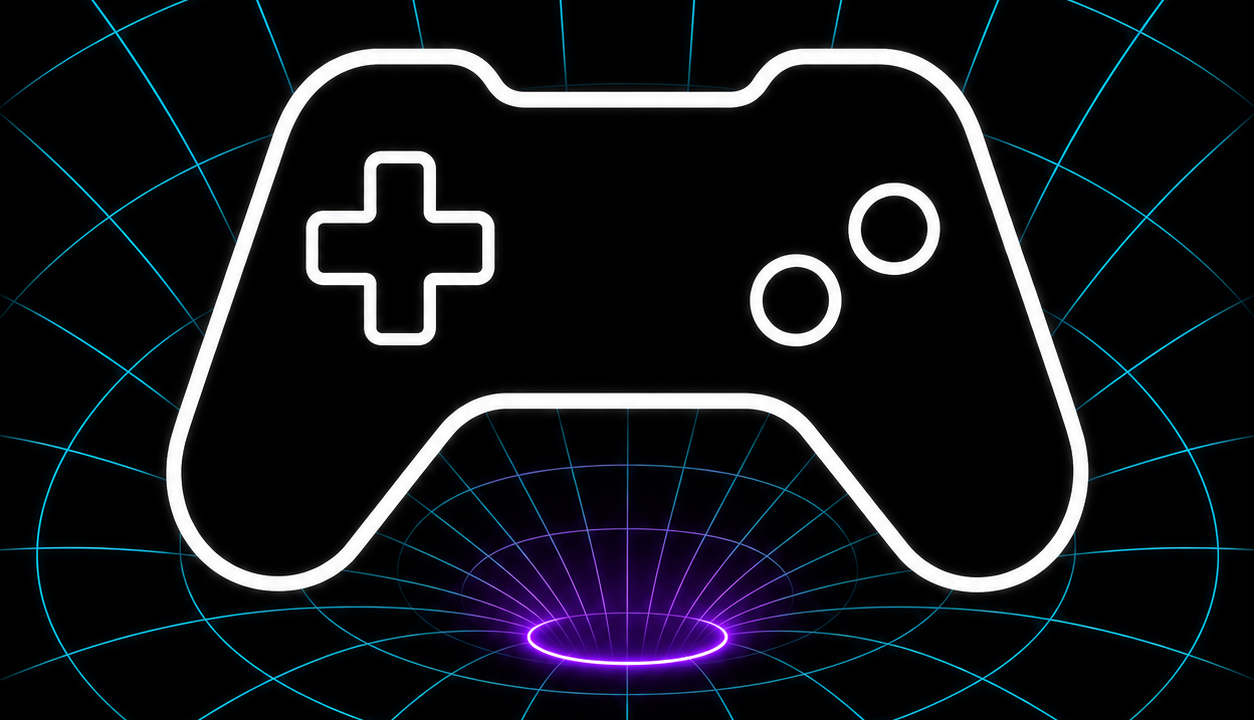
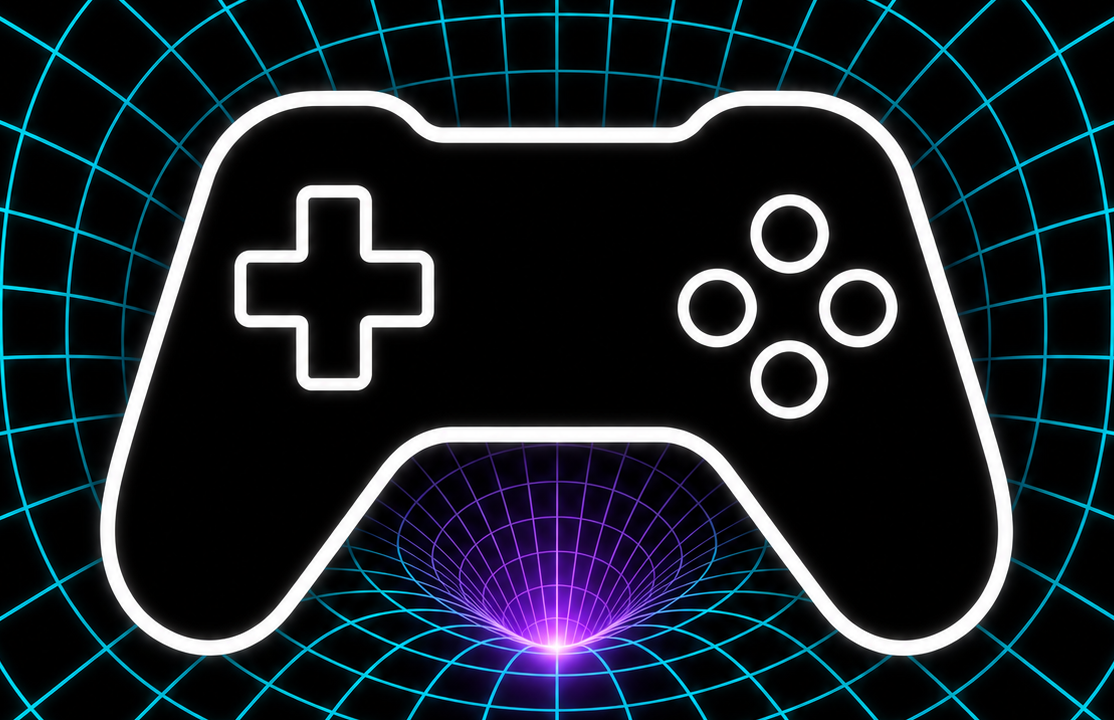
docs: update

diff --git a/profile/README.md b/profile/README.md
@@ -6,15 +6,15 @@
 
 **Harnessing the AI-Eigen space for precise and instant game generation.**
 
-AIGen Game is an ecosystem for AI-powered game development. It brings together an agentic game-dev framework, a reusable agent workflow orchestrator, and engine-facing automation so game ideas can move from intent to playable systems with speed and control.
+`AIGen Game` is an ecosystem for AI-powered game development. It brings together an agentic game-dev framework, a reusable agent workflow orchestrator, and engine-facing automation so game ideas can move from intent to playable systems with speed and control.
 
 The core idea is simple: game creation is a structured generative space. Mechanics, assets, rules, player experience, production phases, and engine operations are not isolated tasks. They are coordinates in an AI-Eigen space that agents can navigate, transform, and refine.
 
-AIGen Game exists to make that space usable.
+`AIGen Game` exists to make that space usable.
 
 ## What It Is
 
-AIGen Game is not only a prompt-to-game tool. It is an entry point into a small family of projects for **agentic game creation**.
+`AIGen Game` is not only a prompt-to-game tool. It is an entry point into a small family of projects for **agentic game creation**.
 
 The projects have distinct roles:
 
@@ -53,19 +53,19 @@ Intent -> Meta Game -> Skills + Asset Pipelines + Phase Management
 
 ### AI-Eigen Space
 
-AIGen Game uses the idea of an AI-Eigen space as a product metaphor for controlled generation. Instead of asking AI for random game output, the framework aims to guide generation along meaningful game-development dimensions: genre, mechanics, style, pacing, constraints, tools, and production state.
+`AIGen Game` uses the idea of an AI-Eigen space as a product metaphor for controlled generation. Instead of asking AI for random game output, the framework aims to guide generation along meaningful game-development dimensions: genre, mechanics, style, pacing, constraints, tools, and production state.
 
 Precision comes from controlling the space.
 
 ### AI Agents
 
-Agents are focused collaborators. They can reason about design, implementation, assets, testing, review, documentation, or production flow. AIGen Game treats agents as participants in a workflow, not as isolated chat responses.
+Agents are focused collaborators. They can reason about design, implementation, assets, testing, review, documentation, or production flow. `AIGen Game` treats agents as participants in a workflow, not as isolated chat responses.
 
 ### Agentic Workflow
 
 Agentic workflows give structure to AI work. They define what should happen, when it should happen, which agent or tool should handle it, and where human approval belongs.
 
-This is how AIGen Game keeps generation fast without making it random or opaque.
+This is how `AIGen Game` keeps generation fast without making it random or opaque.
 
 ### Skills
 
@@ -75,11 +75,11 @@ They help agents work with consistency and craft across repeated projects.
 
 ### MCP
 
-MCP connects agents to real tools and environments. In AIGen Game, MCP is part of the bridge between agentic reasoning and concrete game-making actions, especially when agents need to inspect, control, or automate external systems.
+MCP connects agents to real tools and environments. In `AIGen Game`, MCP is part of the bridge between agentic reasoning and concrete game-making actions, especially when agents need to inspect, control, or automate external systems.
 
 ## Product Direction
 
-AIGen Game is designed for creators and developers who want AI to become part of the game development process itself.
+`AIGen Game `is designed for creators and developers who want AI to become part of the game development process itself.
 
 The framework should feel:
 